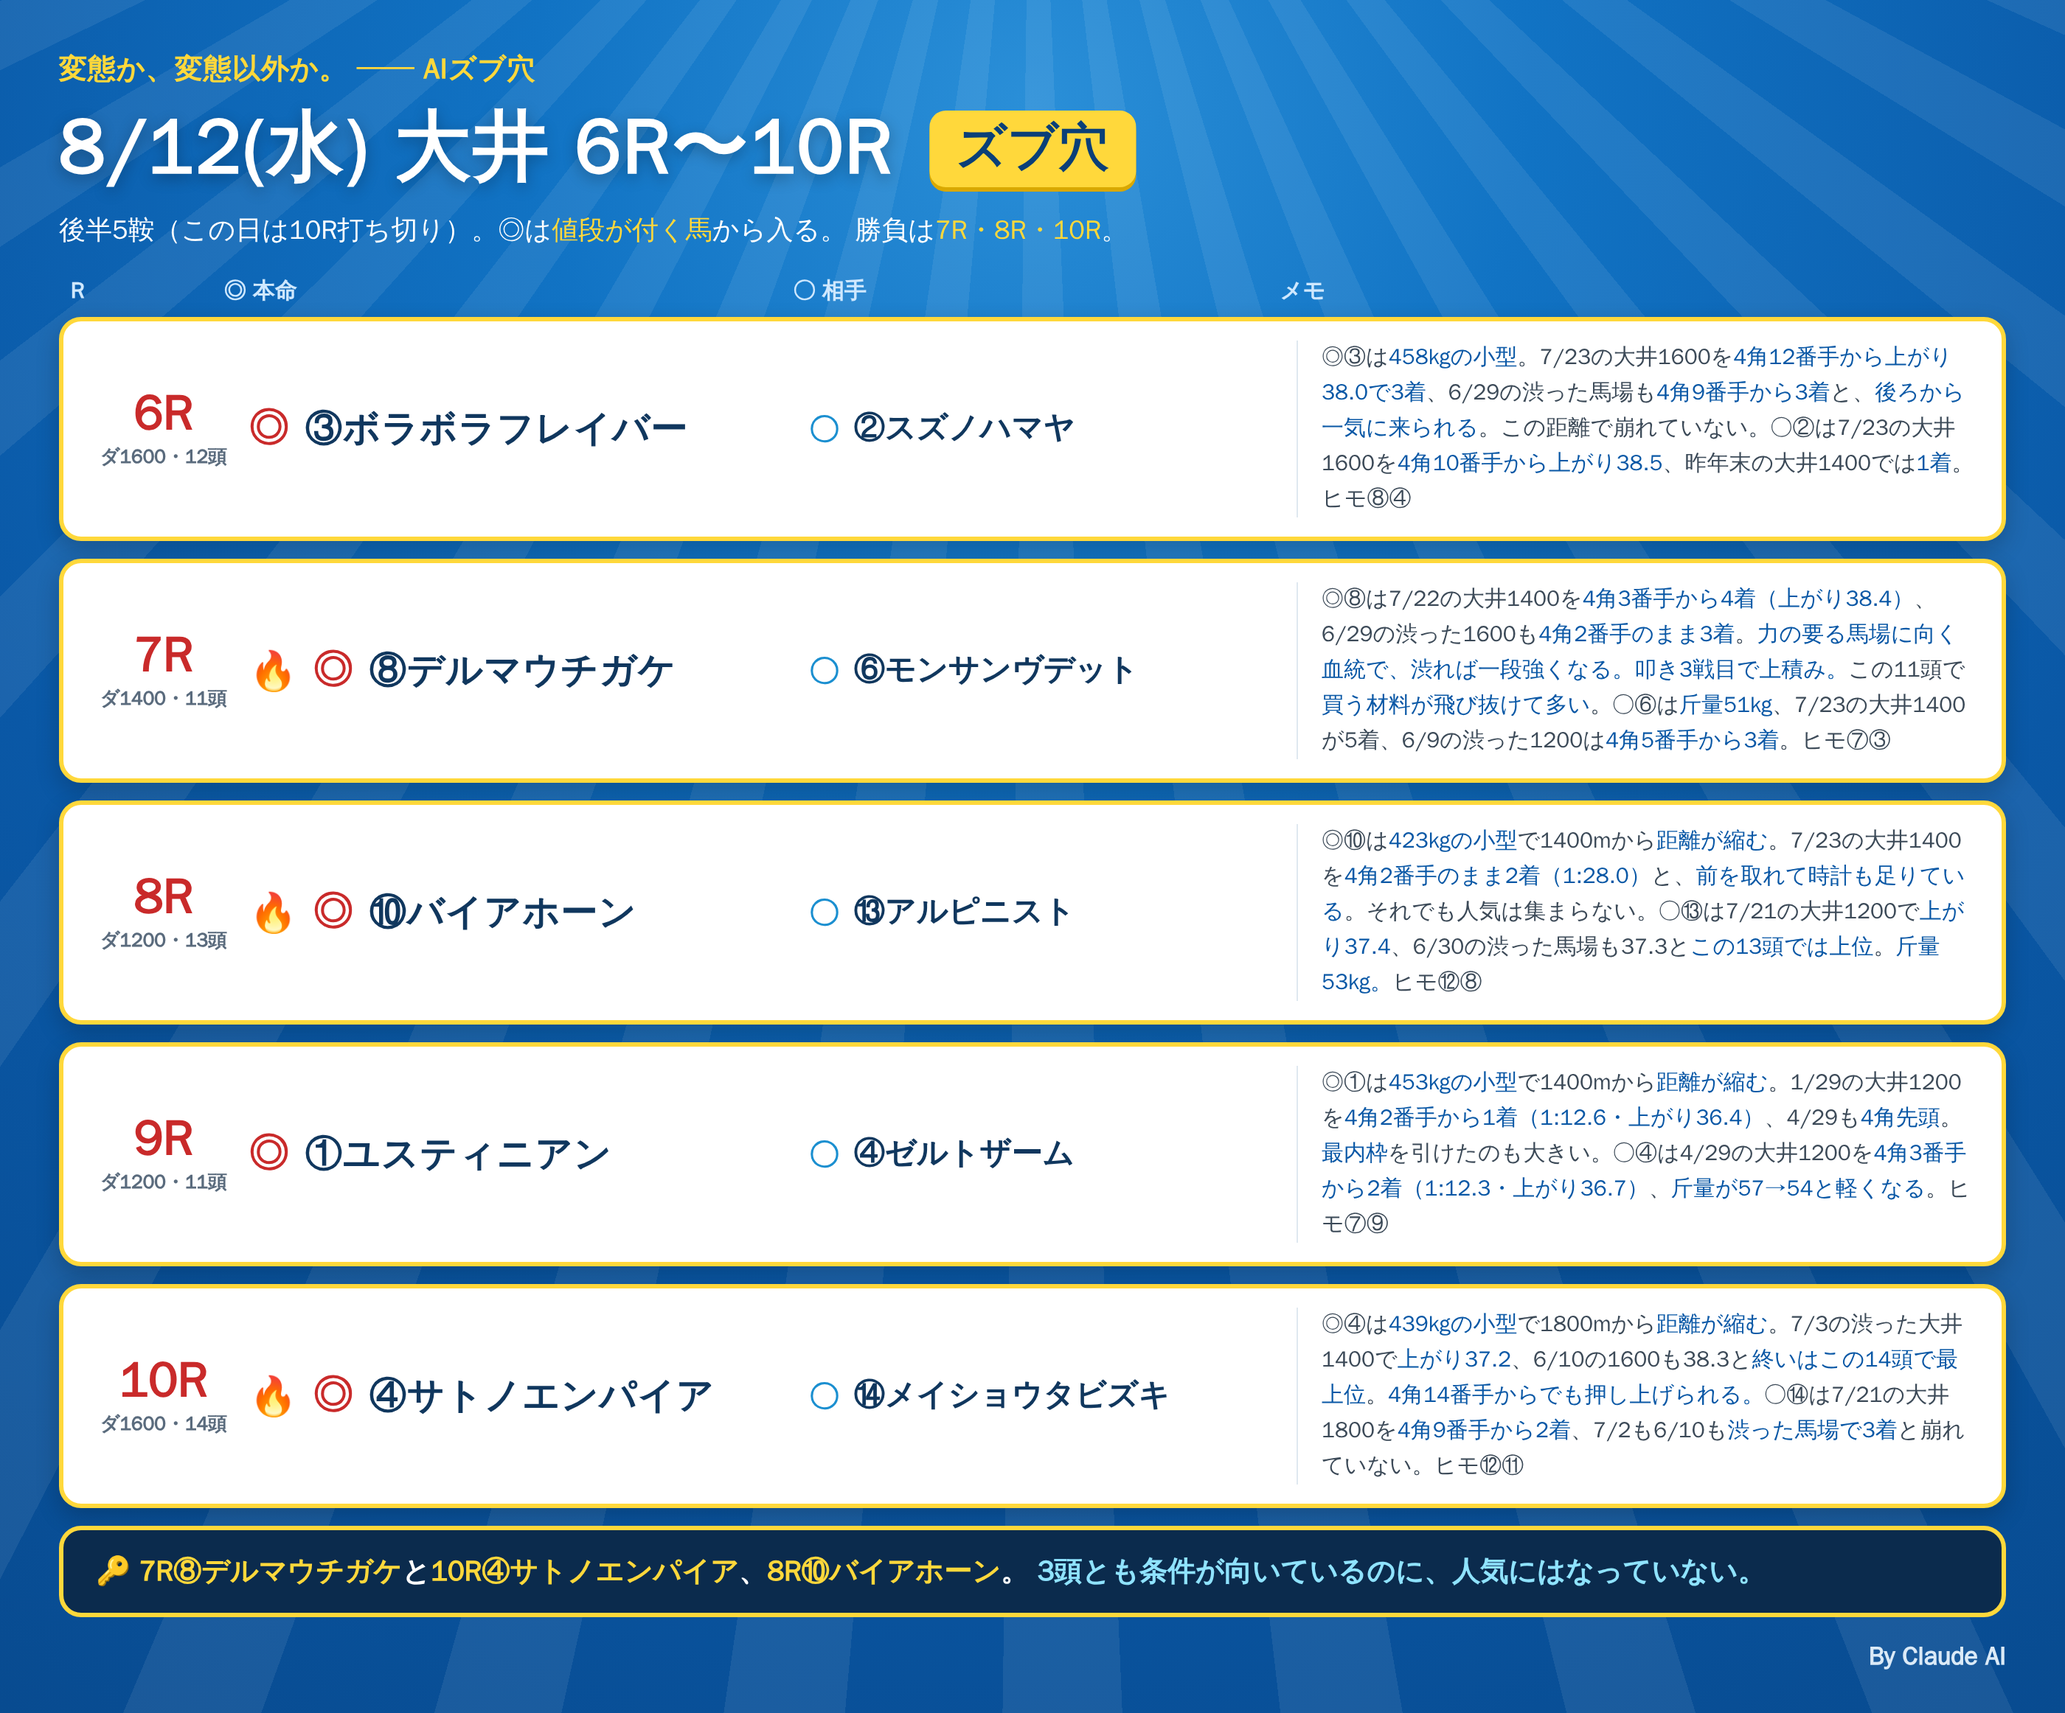
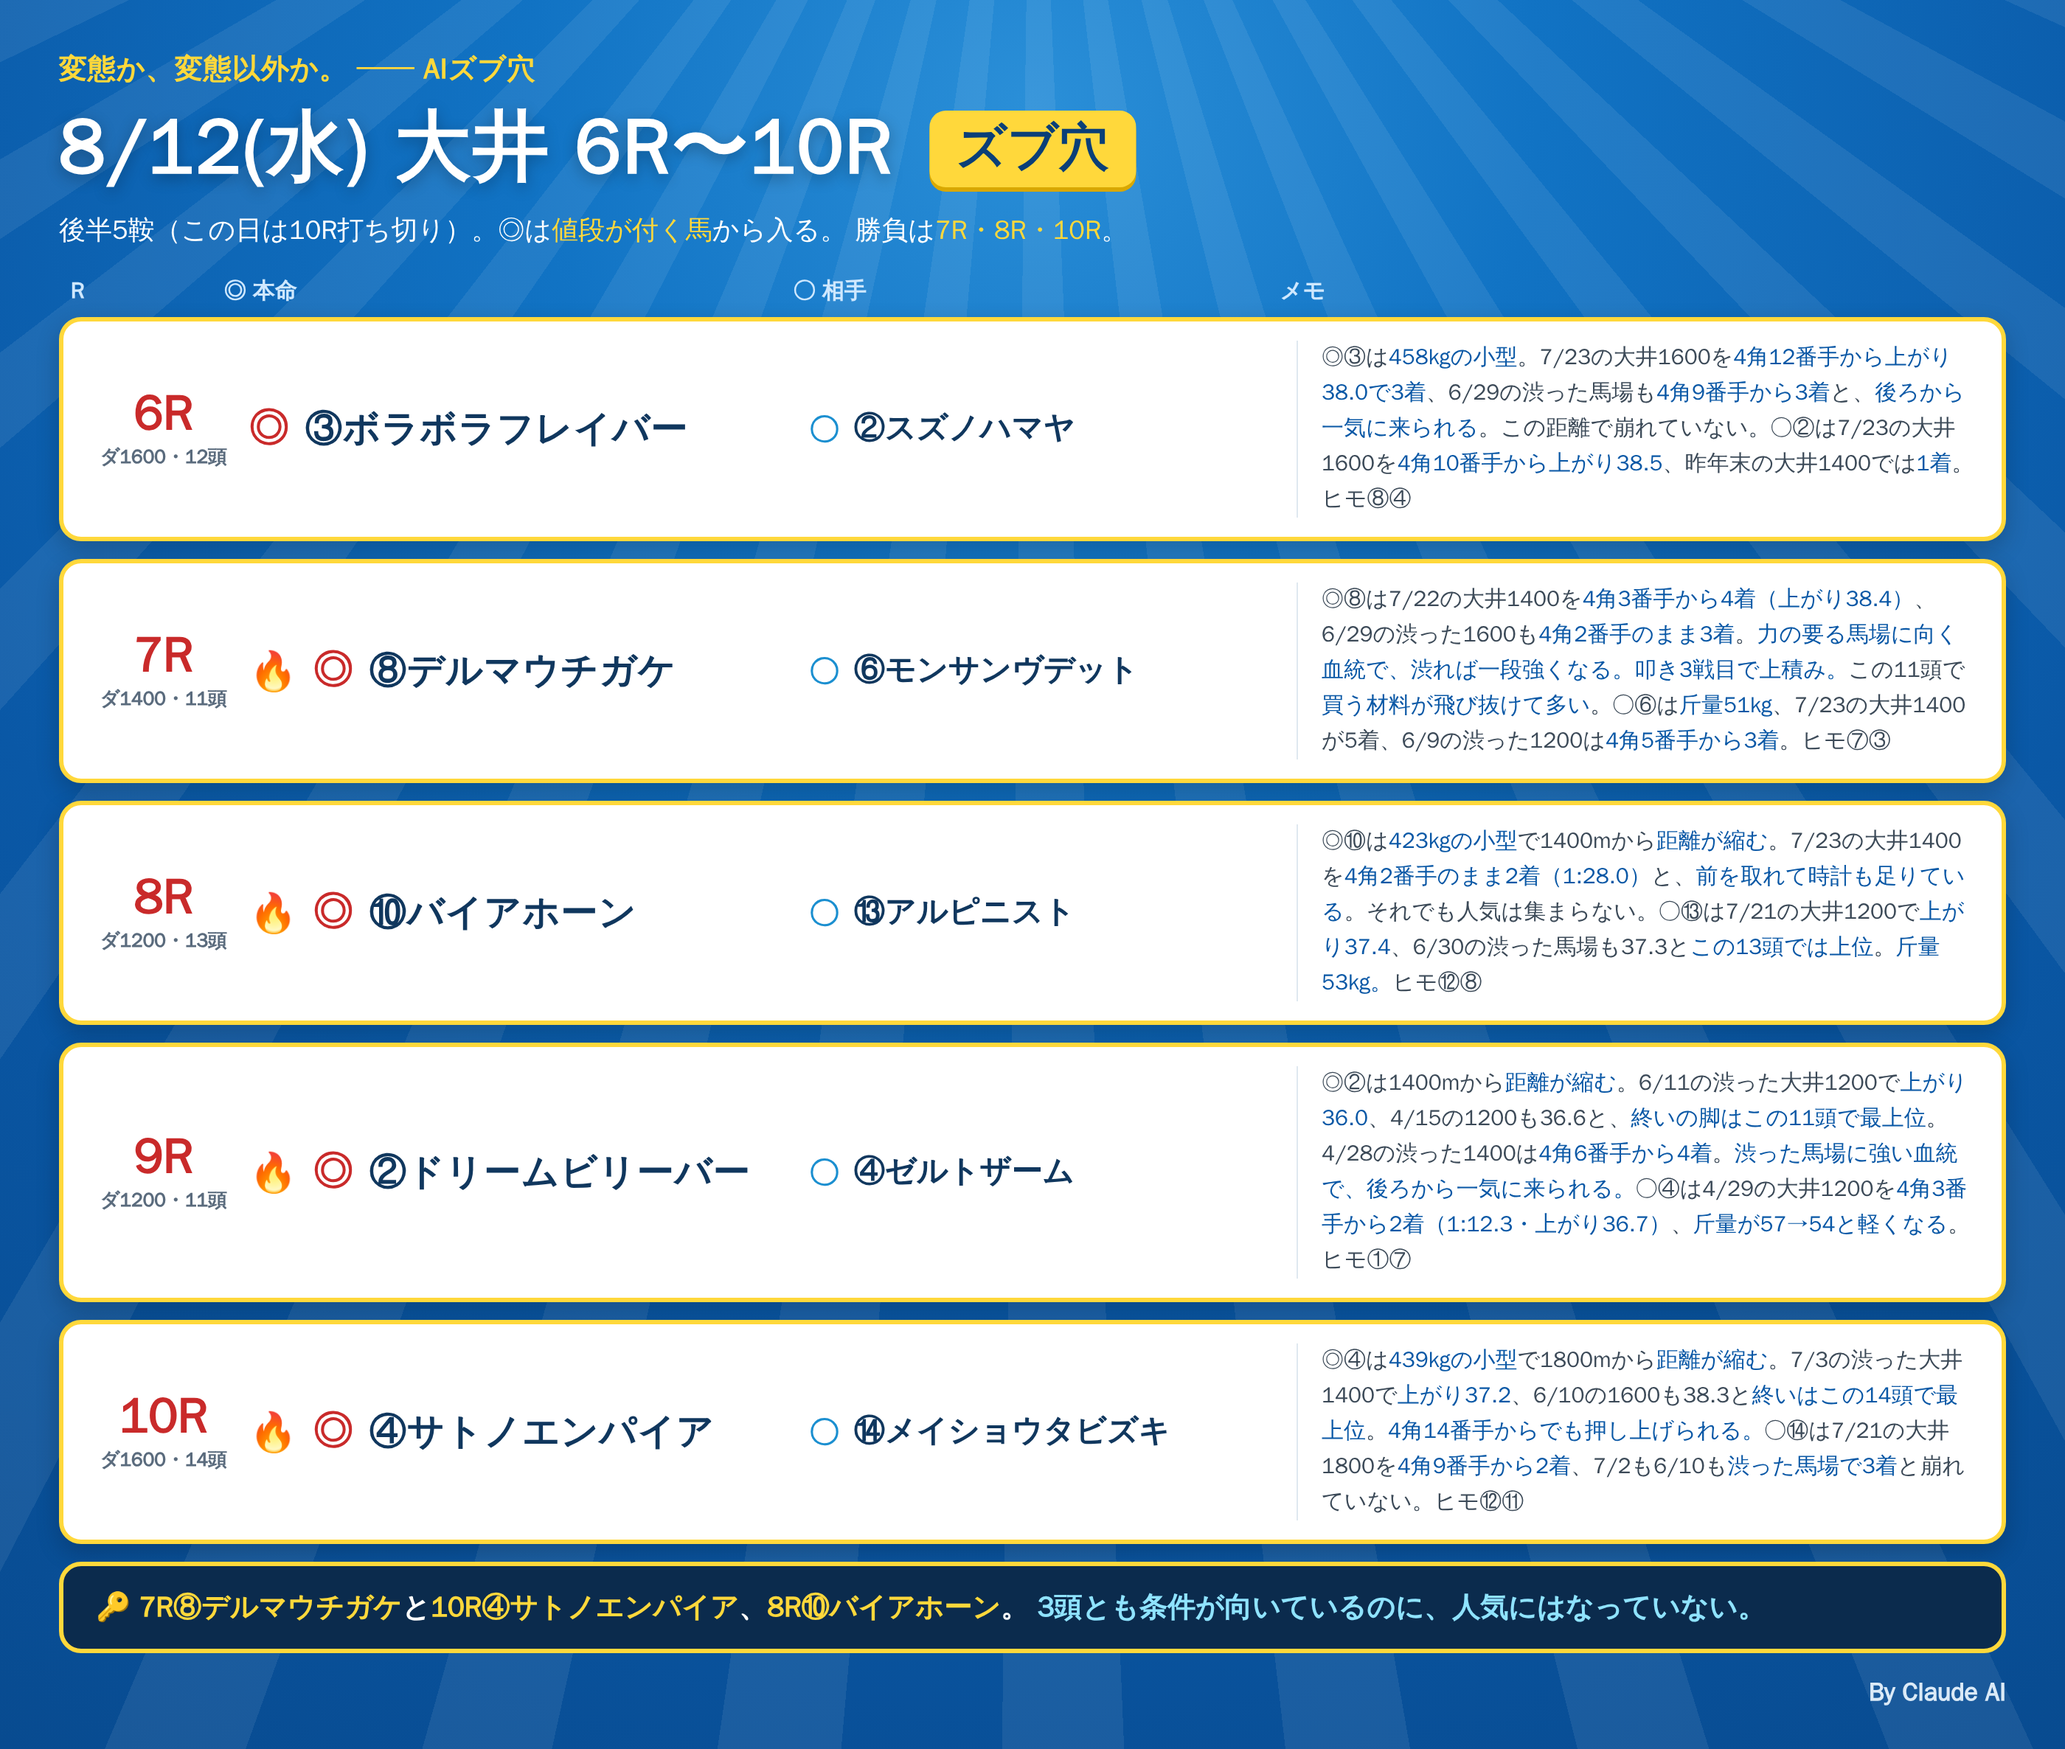
8/12大井 9R ◎を②ドリームビリーバーに変更

diff --git a/notes/live/2026-08-12/oi_6_10.html b/notes/live/2026-08-12/oi_6_10.html
@@ -73,9 +73,9 @@
 
   <div class="row">
     <div class="rN"><div class="n">9R</div><div class="d">ダ1200・11頭</div></div>
-    <div class="hm"><span class="mk">◎</span><span class="nm">①ユスティニアン</span></div>
+    <div class="hm"><span class="fire">🔥</span><span class="mk">◎</span><span class="nm">②ドリームビリーバー</span></div>
     <div class="at"><span class="mk2">○</span><span class="nm2">④ゼルトザーム</span></div>
-    <div class="memo">◎①は<b>453kgの小型</b>で1400mから<b>距離が縮む</b>。1/29の大井1200を<b>4角2番手から1着（1:12.6・上がり36.4）</b>、4/29も<b>4角先頭</b>。<b>最内枠</b>を引けたのも大きい。○④は4/29の大井1200を<b>4角3番手から2着（1:12.3・上がり36.7）</b>、<b>斤量が57→54と軽くなる</b>。ヒモ⑦⑨</div>
+    <div class="memo">◎②は1400mから<b>距離が縮む</b>。6/11の渋った大井1200で<b>上がり36.0</b>、4/15の1200も36.6と、<b>終いの脚はこの11頭で最上位</b>。4/28の渋った1400は<b>4角6番手から4着</b>。<b>渋った馬場に強い血統で、後ろから一気に来られる。</b>○④は4/29の大井1200を<b>4角3番手から2着（1:12.3・上がり36.7）</b>、<b>斤量が57→54と軽くなる</b>。ヒモ①⑦</div>
   </div>
 
   <div class="row">
